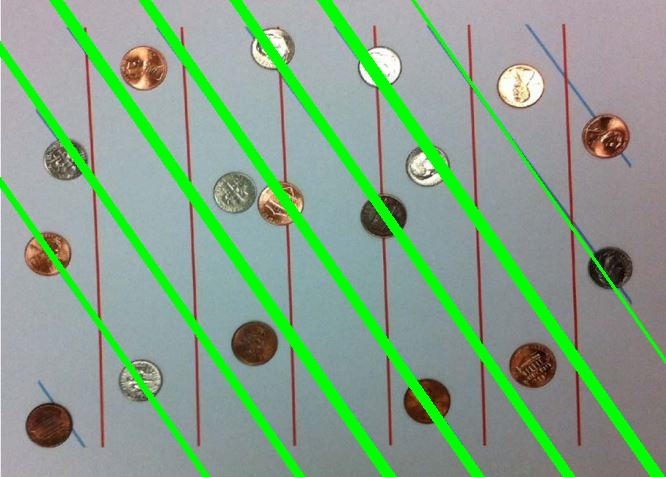
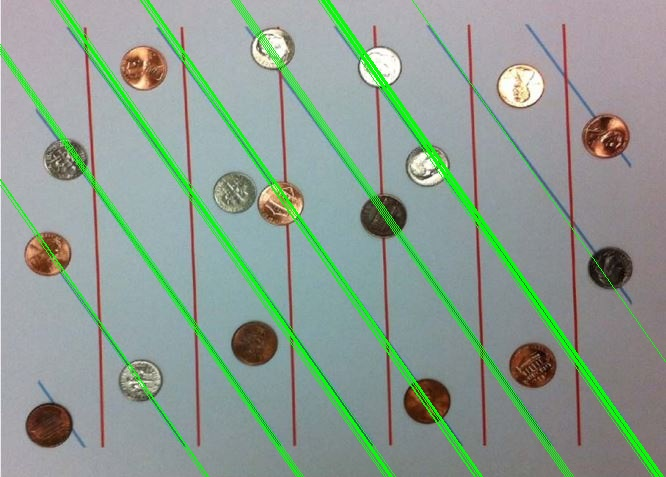
Added hough transform for detecting circles

diff --git a/Project 3/Task3/main.py b/Project 3/Task3/main.py
@@ -18,35 +18,6 @@ def _save(filename, img):
     cv.imwrite(filename, img)
 
 
-def get_hough_transform_acc(img):
-    """
-    """
-    width, height = img.shape
-
-    thetas = np.deg2rad(np.arange(-90.0, 90.0))
-    num_thetas = len(thetas)
-
-    # Calculating Rhos for
-    diag_len = int(round(np.sqrt(width**2 + height**2)))
-
-    # Hough accumulator array of theta vs rho
-    accumulator = np.zeros((2 * diag_len, num_thetas), dtype=np.uint64)
-    y_idxs, x_idxs = np.nonzero(img)  # (row, col) indexes to edges
-
-    # Vote in the hough accumulator
-    cos_theta = np.cos(thetas)
-    sin_theta = np.sin(thetas)
-    for i in range(len(x_idxs)):
-        x = x_idxs[i]
-        y = y_idxs[i]
-        for t_idx in range(num_thetas):
-            # Calculate rho. diag_len is added for a positive index
-            rho = int(
-                round(x * cos_theta[t_idx] + y * sin_theta[t_idx]) + diag_len)
-            accumulator[rho, t_idx] += 1
-    return accumulator, diag_len, thetas, sin_theta, cos_theta
-
-
 def plot_hough(H):
     """ Plot Hough accumulator matrix
     """
@@ -60,25 +31,100 @@ def plot_hough(H):
     plt.show()
 
 
-def get_hough_lines(img, accumulator, diag_len, thresh=81, sin=0, cos=1, ang=90, filename='lines.jpg'):
+def get_hough_transform_lines_acc(img):
+    """Create Vote Accumulator array for line using Hough Transformation
     """
+    width, height = img.shape
+
+    # Gerenating theta range in radians
+    thetas = np.deg2rad(np.arange(-90.0, 90.0))
+    cos_theta, sin_theta = np.cos(thetas), np.sin(thetas)
+    num_thetas = len(thetas)
+
+    # Calculating Rhos for
+    diag_len = int(round(np.sqrt(width**2 + height**2)))
+
+    # Initializing Hough accumulator array of theta vs rho
+    accumulator = np.zeros((2 * diag_len, num_thetas), dtype=np.uint64)
+    y_idxs, x_idxs = np.nonzero(img)  # (row, col) indexes to edges
+
+    # Vote in the hough accumulator
+    for i in range(len(x_idxs)):
+        x = x_idxs[i]
+        y = y_idxs[i]
+        for t_idx in range(num_thetas):
+            # Calculate rho. diag_len is added for a positive index
+            rho = int(
+                round(x * cos_theta[t_idx] + y * sin_theta[t_idx]) + diag_len)
+            accumulator[rho, t_idx] += 1
+    return accumulator, diag_len, thetas, sin_theta, cos_theta
+
+
+def get_hough_lines(img, accumulator, diag_len, thresh=81, sin=0, cos=1, ang=90, filename='lines.jpg'):
+    """Draw line using voted accumulator matrix.
     """
     _img = np.copy(img)
     acc = np.copy(accumulator)
 
+    # Use only thresholded values
     acc = (acc[:, ang]) > thresh
     rhos = np.nonzero(acc)[0]  # Return true indices
 
     for i in range(0, len(rhos)):
-        rho = rhos[i]
-        rho = rho - diag_len
-        x0 = rho * cos
-        y0 = rho * sin
-        x1 = int(x0 + 1000*(-sin))
-        y1 = int(y0 + 1000*(cos))
-        x2 = int(x0 - 1000*(-sin))
-        y2 = int(y0 - 1000*(cos))
-        cv.line(_img, (x1, y1), (x2, y2), (0, 255, 0), 2)
+        rho = rhos[i] - diag_len
+        _x, _y = rho * cos, rho * sin
+        x1 = int(_x + 1000*(-sin))
+        y1 = int(_y + 1000*(cos))
+        x2 = int(_x - 1000*(-sin))
+        y2 = int(_y - 1000*(cos))
+        cv.line(_img, (x1, y1), (x2, y2), (0, 255, 0), 1)
+
+    _save(filename, _img)
+
+
+def get_hough_transform_circles_acc(img, diag_len, rad_max, rad_min):
+    """Create Vote Accumulator array for circles using Hough Transformation process.
+    """
+    _img = np.copy(img)
+    _im = _img > 0
+
+    # Gerenating theta range, in radians
+    theta = np.deg2rad(np.arange(0, 361))
+    cos_theta, sin_theta = np.cos(theta), np.sin(theta)
+
+    # Intializing 3D Hough Accumulator array of a vs b vs r
+    # Range of a and b is caclulated using diag_len
+    # Range of radius is approximated from the sourceimage
+    acc = np.zeros((2*diag_len, 2*diag_len, rad_max-rad_min), dtype=np.uint8)
+
+    # Vote in the hough accumulator
+    _y, _x = np.nonzero(_im)
+    for i in range(0, len(_x)):  # For all edges
+        x, y = _x[i], _y[i]
+        # Accumulator for all radius in the range provided
+        for rad in range(rad_min, rad_max):
+            for t_ind in range(0, 361):
+                a = int(round(x - (rad * cos_theta[t_ind]))) + diag_len
+                b = int(round(y - (rad * sin_theta[t_ind]))) + diag_len
+                # print(f'{a},{b}')
+                acc[a, b, rad-rad_min] += 1
+    return(acc)
+
+
+def get_hough_circles(img, acc, diag_len, rad_min, thresh, filename='temp.jpg'):
+    """Draw circles using voted accumulator matrix
+    """
+    _img = np.copy(img)
+
+    # Thresholding accumulator values
+    acc = acc > thresh
+    acc = np.nonzero(acc)
+
+    _A, _B, rad = acc[0], acc[1], acc[2]
+
+    for i in range(0, len(_A)):
+        a, b, r = _A[i] - diag_len, _B[i] - diag_len, rad[i] + rad_min
+        cv.circle(_img, (a, b), r, (0, 255, 0), 1)
 
     _save(filename, _img)
 
@@ -90,11 +136,30 @@ if __name__ == '__main__':
     # Implement Canny Edge Detection Algo ?
     edges = sobel(img_g)
 
-    acc_mat, diag_len, thetas, sin_t, cos_t = get_hough_transform_acc(edges)
+    # Accumulator Voting Matrix for Lines
+    acc_mat, diag_len, thetas, sin_t, cos_t = get_hough_transform_lines_acc(
+        edges)
+    # plot_hough(acc_mat)
 
-    # Detecting Vertical Lines
+    # Part A : Detecting Vertical Lines
     get_hough_lines(img, acc_mat, diag_len, thresh=81, sin=0,
                     cos=1, ang=90, filename='red_line.jpg')
+    print('Detected Vertical Lines drawn')
 
-    # Detecting Angled Lines
-    get_hough_lines(img, acc_mat, diag_len, thresh=120, sin=sin_t[55], cos=cos_t[55], ang = 55, filename = 'blue_line.jpg')
+    # Part B : Detecting Diagonal Lines
+    _cos, _sin = cos_t[55], sin_t[55]
+    get_hough_lines(img, acc_mat, diag_len, thresh=120,
+                    sin=_sin, cos=_cos, ang=55, filename='blue_line.jpg')
+    print('Detected Diagonal Lines drawn')
+
+    # Part C : Detecting Circles
+
+    rad_min, rad_max = 15, 30  # Range of radius of the coins, assumed
+    # Accumulator Voting Matrix for Circles
+    circle_acc_mat = get_hough_transform_circles_acc(
+        edges, diag_len, rad_max, rad_min)
+    # plot_hough(circle_acc_mat)
+
+    get_hough_circles(img, circle_acc_mat, diag_len, rad_min,
+                      181, filename='coin.jpg')
+    print('Detected Circles drawn')
